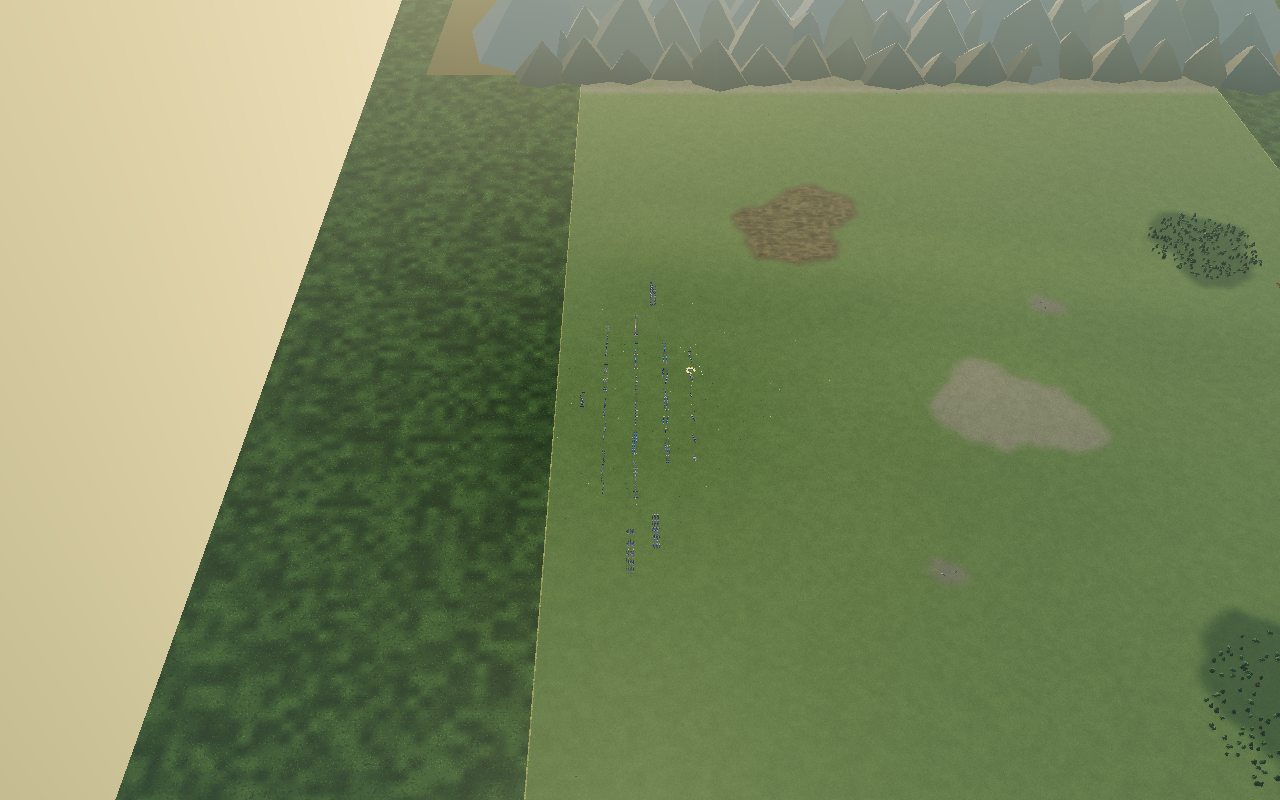
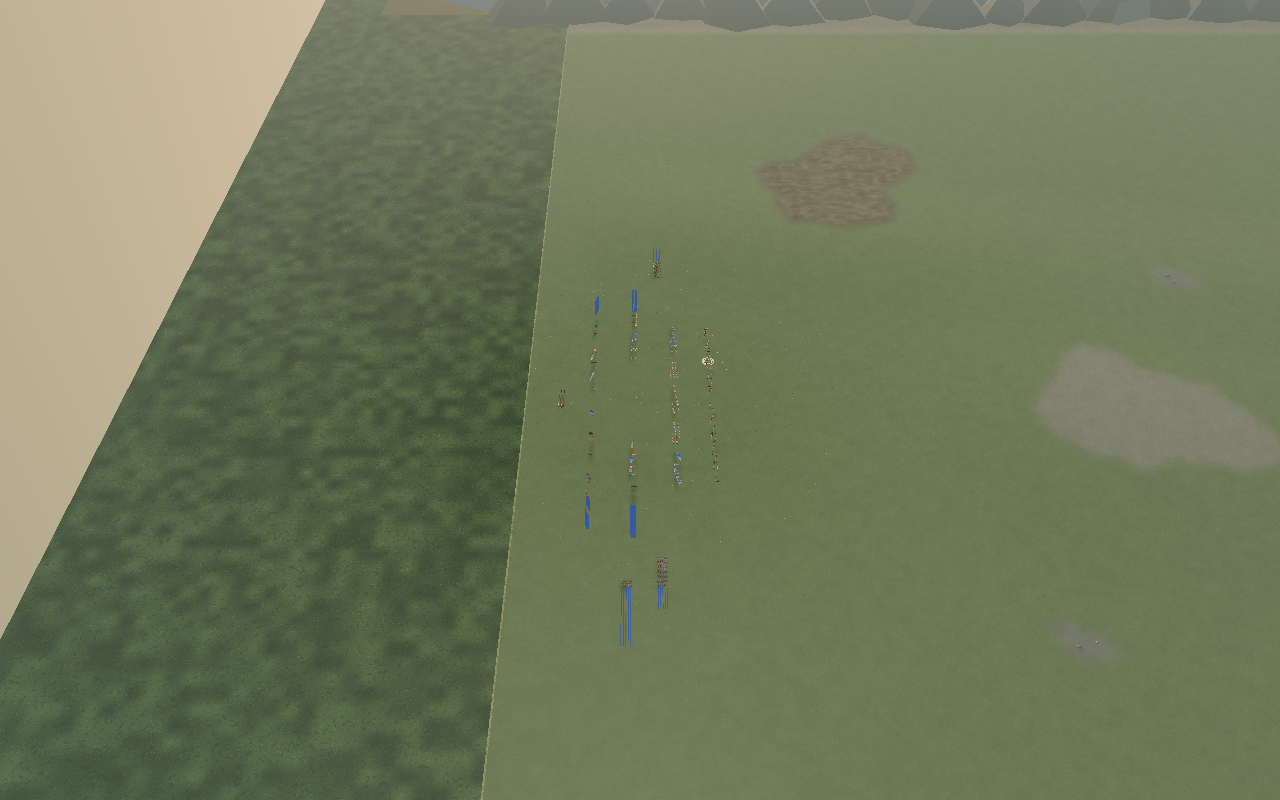
order previews are soldier-ring grids; one selection green everywhere
The destination preview (order flash, hold-Space overlay, right-drag and
drag-move previews) now renders as the soldier-ring grid at the final
formation slots — the same decal as the live selection rings, so "where
they stand" and "where they will stand" are one visual language. The
rectangle ghost outline is gone.

SELECTION_GREEN becomes the one owner of the selection/status green:
battle soldier rings, the player's order cues (paths, queue diamonds,
drag arrow), and the campaign's selection ring + friendly crowd tint all
read it; enemy cues keep the red accent. Ground-cue alpha now matches
the ring weight.

Repairs two stale verifiers hit along the way: the renderer-lab source
scan's seam regex predated PhotorealBattleWorld.create's options arg,
and the parity overlay assertion counted rings/pies in their pre-layer
buffers.

diff --git a/web/src/battle/scene.ts b/web/src/battle/scene.ts
@@ -1,7 +1,7 @@
 import { Game, type InitOutput } from "../wasm/game_wasm.js";
 import type { Scene } from "../scene";
 import { Camera } from "../shared/camera";
-import { pushGhost, pushPie } from "../shared/overlays";
+import { pushDestRings, pushPie, SELECTION_GREEN, SOLDIER_RING_RADIUS } from "../shared/overlays";
 import { projectPoint } from "../../../packages/renderer-core/src/camera3d";
 import { fatalSurfaceFor, showFatalErrorSurface } from "../shared/fatalError";
 import {
@@ -972,7 +972,9 @@ export class BattleScene implements Scene {
       for (let u = 0; u < n; u++) {
         const o = u * STRIDE;
         const [ax, ay, facing, team] = [info[o], info[o + 1], info[o + 2], info[o + 6]];
-        const [r, g, b] = team === 0 ? [0.55, 0.7, 1.0] : [1.0, 0.55, 0.45];
+        // The player's cues share the selection-ring green (one style for
+        // "mine"); the enemy's keep the red accent.
+        const [r, g, b] = team === 0 ? SELECTION_GREEN : [1.0, 0.55, 0.45];
         if (withPaths) {
           const fx = Math.cos(facing);
           const fy = Math.sin(facing);
@@ -1006,8 +1008,8 @@ export class BattleScene implements Scene {
             }
           }
         }
-        // Destination ghost: the formation frame at the end of the path
-        // (flashes on every order; hold Space to keep them all visible).
+        // Destination preview: the soldier-ring grid at the final formation
+        // slots (flashes on every order; hold Space to keep them all visible).
         const age = performance.now() - (orderFlash.get(u) ?? -1e9);
         if (info[o + 12] > 0.5 && (withPaths || (showTransient && age < 2500))) {
           // Recent orders fade out; Space shows them at full strength.
@@ -1015,11 +1017,20 @@ export class BattleScene implements Scene {
           const cls = info[o + 13];
           const alive = info[o + 15];
           const files = Math.max(1, Math.ceil(alive / CLASS_DEPTH[cls]));
-          const w = files * CLASS_SPACING[cls];
-          const d = CLASS_DEPTH[cls] * 1.1;
           const gf =
             info[o + 23] > 0.5 ? info[o + 22] : Math.atan2(info[o + 11] - ay, info[o + 10] - ax);
-          pushGhost(groundCues, info[o + 10], info[o + 11], gf, w, d, r * k, g * k, b * k);
+          pushDestRings(
+            rings,
+            info[o + 10],
+            info[o + 11],
+            gf,
+            alive,
+            files,
+            CLASS_SPACING[cls],
+            r * k,
+            g * k,
+            b * k,
+          );
           groundCues.push(
             ax,
             ay,
@@ -1039,7 +1050,8 @@ export class BattleScene implements Scene {
         if (showTransient && info[o + 14] > 0)
           pushPie(groundCues, ax, ay, info[o + 14], 7, 1, 1, 1);
       }
-      // Right-drag preview: where everyone will stand, facing the cursor.
+      // Right-drag preview: where every man will stand, facing the cursor —
+      // the soldier-ring grid in the selection green.
       if (input.rightDrag) {
         const sel = myUnits(input.selected);
         if (sel.length > 0) {
@@ -1048,17 +1060,15 @@ export class BattleScene implements Scene {
             const o = dst.u * STRIDE;
             const cls = info[o + 13];
             const alive = info[o + 15];
-            const files = Math.max(1, Math.ceil(alive / CLASS_DEPTH[cls]));
-            pushGhost(
-              groundCues,
+            pushDestRings(
+              rings,
               dst.x,
               dst.y,
               input.rightDrag.facing,
-              files * CLASS_SPACING[cls],
-              CLASS_DEPTH[cls] * 1.1,
-              1,
-              1,
-              0.7,
+              alive,
+              Math.max(1, Math.ceil(alive / CLASS_DEPTH[cls])),
+              CLASS_SPACING[cls],
+              ...SELECTION_GREEN,
             );
           }
           // The arrow itself.
@@ -1066,18 +1076,15 @@ export class BattleScene implements Scene {
           groundCues.push(
             a.x,
             a.y,
-            1,
-            1,
-            0.7,
+            ...SELECTION_GREEN,
             a.x + Math.cos(a.facing) * 14,
             a.y + Math.sin(a.facing) * 14,
-            1,
-            1,
-            0.7,
+            ...SELECTION_GREEN,
           );
         }
       }
-      // Drag-move preview: ghosts of every selected unit at the dragged spot.
+      // Drag-move preview: the ring grid of every selected unit at the
+      // dragged spot.
       if (input.dragDelta) {
         const [dx, dy] = input.dragDelta;
         for (const u of input.selected) {
@@ -1085,18 +1092,16 @@ export class BattleScene implements Scene {
           const cls = info[o + 13];
           const alive = info[o + 15];
           if (alive === 0) continue;
-          const files = Math.max(1, Math.ceil(alive / CLASS_DEPTH[cls]));
           const [cx, cy] = unitCenter(u);
-          pushGhost(
-            groundCues,
+          pushDestRings(
+            rings,
             cx + dx,
             cy + dy,
             info[o + 2],
-            files * CLASS_SPACING[cls],
-            CLASS_DEPTH[cls] * 1.1,
-            1,
-            1,
-            1,
+            alive,
+            Math.max(1, Math.ceil(alive / CLASS_DEPTH[cls])),
+            CLASS_SPACING[cls],
+            ...SELECTION_GREEN,
           );
         }
       }
@@ -1117,8 +1122,7 @@ export class BattleScene implements Scene {
           for (let i = start; i < end; i++) {
             if (aliveSoldiers[i] === 0) continue;
             const p = i * 2;
-            // Campaign-selection green (the status accent), as ring decals.
-            rings.push(pos[p], pos[p + 1], 0.45, 0.31, 0.82, 0.39);
+            rings.push(pos[p], pos[p + 1], SOLDIER_RING_RADIUS, ...SELECTION_GREEN);
           }
         }
       }

diff --git a/web/src/campaign/renderer.ts b/web/src/campaign/renderer.ts
@@ -44,10 +44,7 @@ import {
   type CameraSnapshot,
 } from "../../../packages/renderer-core/src/cameraUniform";
 import { campaignCameraRig, type CameraRigRange } from "../battle/cameraRig";
-import {
-  chartCamera3d,
-  type Camera3DParams,
-} from "../../../packages/renderer-core/src/camera3d";
+import { chartCamera3d, type Camera3DParams } from "../../../packages/renderer-core/src/camera3d";
 import { SkinnedCrowdPipeline } from "../../../packages/renderer-core/src/skinnedPipeline";
 import { SoldierShadowDecalPass } from "../../../packages/renderer-core/src/soldierShadowPass";
 import { buildStackCrowd } from "../../../packages/crowd-runtime/src/stackCrowd";
@@ -61,6 +58,7 @@ import { createPlaceholderSoldierMeshes } from "../../../packages/soldier-assets
 import type { CampaignData, MapNode } from "./data";
 import { isControlledStage } from "./data";
 import type { CamView } from "./camera";
+import { SELECTION_GREEN } from "../shared/overlays";
 import { Allegiance } from "./status";
 import { TEMPERATE_Y_KM, type TerrainField } from "./terrain";
 import { campaignSurface, type CampaignSurface } from "./surface";
@@ -268,7 +266,9 @@ export class CampaignRenderer {
       rgba: territory.rgba,
       rect: this.data.bgRect,
     });
-    this.borders.upload(campaignFactionBorderVertices(territory.borders, (x, y) => this.field.heightAt(x, y)));
+    this.borders.upload(
+      campaignFactionBorderVertices(territory.borders, (x, y) => this.field.heightAt(x, y)),
+    );
   }
 
   draw(opts: DrawOptions) {
@@ -631,7 +631,11 @@ export class CampaignRenderer {
           },
       this.surface.mesh,
     );
-    this.clouds = new CampaignCloudPass(this.shell, this.data.bgRect, controlledStage ? 0.75 : 2.05);
+    this.clouds = new CampaignCloudPass(
+      this.shell,
+      this.data.bgRect,
+      controlledStage ? 0.75 : 2.05,
+    );
     this.fog = new CampaignFogPass(this.shell, this.data.bgRect);
     this.territoryPass = new CampaignTerritoryPass(
       this.shell,
@@ -670,8 +674,7 @@ export class CampaignRenderer {
     this.labels = new CampaignLabelPass(this.shell);
     const drawData = buildCampaignMapDrawData(this.data, {
       roadScale: 1.0,
-      surfaceAt: (x, y) =>
-        this.field.landAt(x, y, controlledStage ? 2.5 : 16) ? "land" : "water",
+      surfaceAt: (x, y) => (this.field.landAt(x, y, controlledStage ? 2.5 : 16) ? "land" : "water"),
       heightAt: (x, y) => this.field.heightAt(x, y),
     });
     this.mapDrawStats = drawData.stats;
@@ -766,7 +769,7 @@ function buildEntityFrame(
         y: mapNode.pos[1],
         z: field.heightAt(mapNode.pos[0], mapNode.pos[1]),
         radius: citySelectionRadius(mapNode.tier) * fixtureScale,
-        color: [0.31, 0.82, 0.39],
+        color: SELECTION_GREEN,
         kind: "city",
       });
     }
@@ -838,7 +841,7 @@ function buildEntityFrame(
         y: display.y,
         z: field.heightAt(display.x, display.y),
         radius: selectionRadius,
-        color: [0.31, 0.82, 0.39],
+        color: SELECTION_GREEN,
         kind: occupiedCity ? "garrisoned-army" : "army",
       });
     }
@@ -902,7 +905,7 @@ function factionColor(data: CampaignData, faction: number): [number, number, num
 }
 
 function allegianceColor(allegiance: Allegiance): [number, number, number] {
-  if (allegiance === Allegiance.Friend) return [0.31, 0.82, 0.39];
+  if (allegiance === Allegiance.Friend) return SELECTION_GREEN;
   if (allegiance === Allegiance.Foe) return [0.88, 0.27, 0.23];
   return [0.93, 0.78, 0.3];
 }
@@ -973,7 +976,8 @@ function campaignArmyLabels(data: CampaignData, opts: DrawOptions): CampaignLabe
         ? garrisonDisplayAnchor(data.map.nodes[occupiedCity.index])
         : { x: army.x, y: army.y };
       const cityOverlap = occupiedCity !== null;
-      const selectedOffset = !cityOverlap && army.id === opts.selected && isControlledStage(data) ? 28 : 0;
+      const selectedOffset =
+        !cityOverlap && army.id === opts.selected && isControlledStage(data) ? 28 : 0;
       const overlapClearance = cityOverlap ? (opts.cam.scale >= 3 ? 14 : 10) : 24;
       return {
         text: `${ordinal(ordinalOf.get(army.id) ?? 1)} LEGION`,

diff --git a/web/src/shared/overlays.ts b/web/src/shared/overlays.ts
@@ -1,13 +1,26 @@
-// Tactical line vertex helpers (x, y, r, g, b per vertex; GL_LINES pairs).
+// Tactical overlay vertex helpers: line cues are (x, y, r, g, b) per vertex
+// (GL_LINES pairs); ring instances are (x, y, radius, r, g, b).
 
-/** Formation-frame outline + facing tick at a prospective destination. */
-export function pushGhost(
-  verts: number[],
+/** The ONE selection/status green — campaign selection rings, battle soldier
+ *  rings, and the player's order-preview cues all read this. */
+export const SELECTION_GREEN: [number, number, number] = [0.31, 0.82, 0.39];
+
+/** Soldier-ring footprint radius, meters — selection and destination previews. */
+export const SOLDIER_RING_RADIUS = 0.45;
+
+/** Destination preview: one soldier ring per man at his prospective formation
+ *  slot — the same decal style as the live selection rings, so "where they
+ *  stand now" and "where they will stand" read as one visual language. Front
+ *  rank sits on the destination point, ranks fall back behind it, and the
+ *  last partial rank centres on the frontage. */
+export function pushDestRings(
+  rings: number[],
   x: number,
   y: number,
   facing: number,
-  w: number,
-  d: number,
+  alive: number,
+  files: number,
+  spacing: number,
   r: number,
   g: number,
   b: number,
@@ -16,19 +29,16 @@ export function pushGhost(
     fy = Math.sin(facing);
   const rx = fy,
     ry = -fx;
-  const hw = w / 2;
-  const corners = [
-    [x + rx * hw, y + ry * hw],
-    [x - rx * hw, y - ry * hw],
-    [x - rx * hw - fx * d, y - ry * hw - fy * d],
-    [x + rx * hw - fx * d, y + ry * hw - fy * d],
-  ];
-  for (let k = 0; k < 4; k++) {
-    const [x0, y0] = corners[k];
-    const [x1, y1] = corners[(k + 1) % 4];
-    verts.push(x0, y0, r, g, b, x1, y1, r, g, b);
+  const rankGap = 1.1;
+  const n = Math.max(0, Math.floor(alive));
+  const perRank = Math.max(1, Math.floor(files));
+  for (let i = 0; i < n; i++) {
+    const rank = Math.floor(i / perRank);
+    const rankCount = Math.min(perRank, n - rank * perRank);
+    const off = (i % perRank) * spacing - ((rankCount - 1) * spacing) / 2;
+    const back = rank * rankGap;
+    rings.push(x + rx * off - fx * back, y + ry * off - fy * back, SOLDIER_RING_RADIUS, r, g, b);
   }
-  verts.push(x, y, r, g, b, x + fx * 5, y + fy * 5, r, g, b);
 }
 
 /** Progress pie: an arc of `frac` of a full turn, 16ths, starting at 12 o'clock. */

diff --git a/packages/photoreal-renderer/src/battle/battleWorld.ts b/packages/photoreal-renderer/src/battle/battleWorld.ts
@@ -204,7 +204,7 @@ export class PhotorealBattleWorld {
     // under any rise and vanishes. The lift clears the coarse ground mesh's
     // within-cell divergence from the bilinear field.
     this.groundCues = new PhotorealLineLayer(scene, 0.25, {
-      alpha: 0.88,
+      alpha: 0.98, // the selection-ring weight — cues and rings are one style
       depthTest: true,
       renderOrder: RENDER_ORDER.groundCues,
       drape: { heightAt: (x, y) => this.heightAt(x, y), step: 4 },
